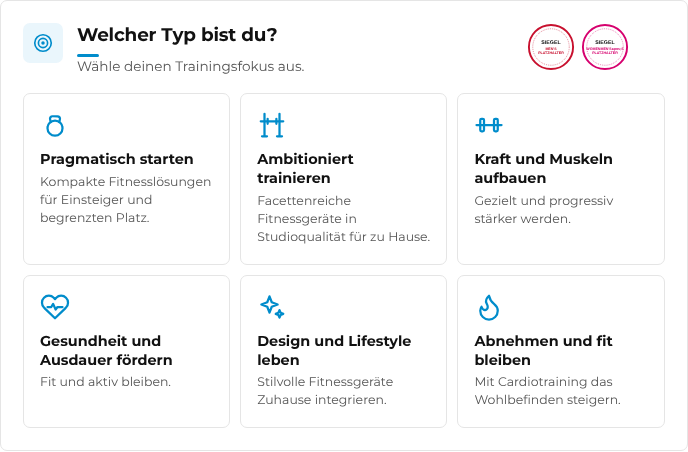
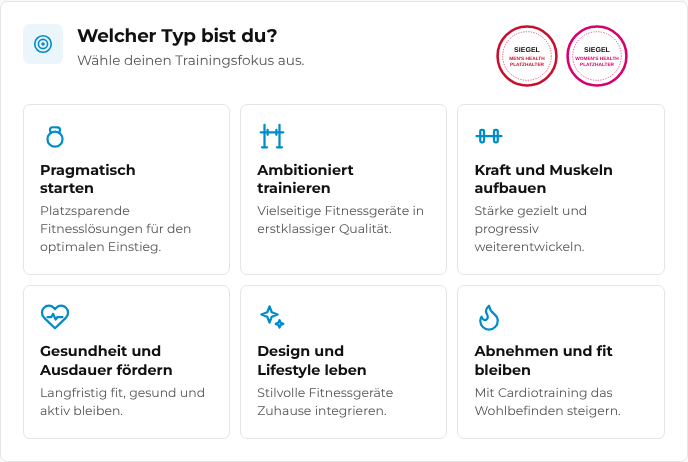
Docs: Konfigurator screenshots of the second feedback round
Claude-Session: https://claude.ai/code/session_01SGJ5YSf8qvexhbMrchJZyU

diff --git a/docs/CONFIGURATOR.md b/docs/CONFIGURATOR.md
@@ -266,9 +266,10 @@ Fitnesslösungen für den optimalen Einstieg.“, „Vielseitige Fitnessgeräte 
 same texts as `subDe` in `configurator-core.mjs`, which Mo reads in the answers line.
 
 Screenshots (local harness: the real section and widget, Mo's dialogue mocked, placeholder seals):
-[`screenshots/konfigurator/`](./screenshots/konfigurator/) — storefront after the round of 22.10.2026
-(light design, persona card, handover on the phone, plan with weight steps and own lines,
-„+ Produkt hinzufügen“, „Starke Partner“; 1440 / 1024 / 390 px), admin 1440 / 1024 px in light and
+[`screenshots/konfigurator/`](./screenshots/konfigurator/) — storefront after the second round of
+22.10.2026 (homepage structure, persona card, Mo's panel, handover on the phone, plan with weight
+steps and own lines, „+ Produkt hinzufügen“, „So funktioniert's“, „Starke Partner“; 1440 / 1024 /
+390 px), admin 1440 / 1024 px in light and
 dark (the persona distribution with first-version answers mapped); the KPI integration (`kpi-section-*`, `kpi-umsatz-wege-*`,
 `kpi-bestellungen-*`, `gespraeche-plan-*`) on local seed data.
 
